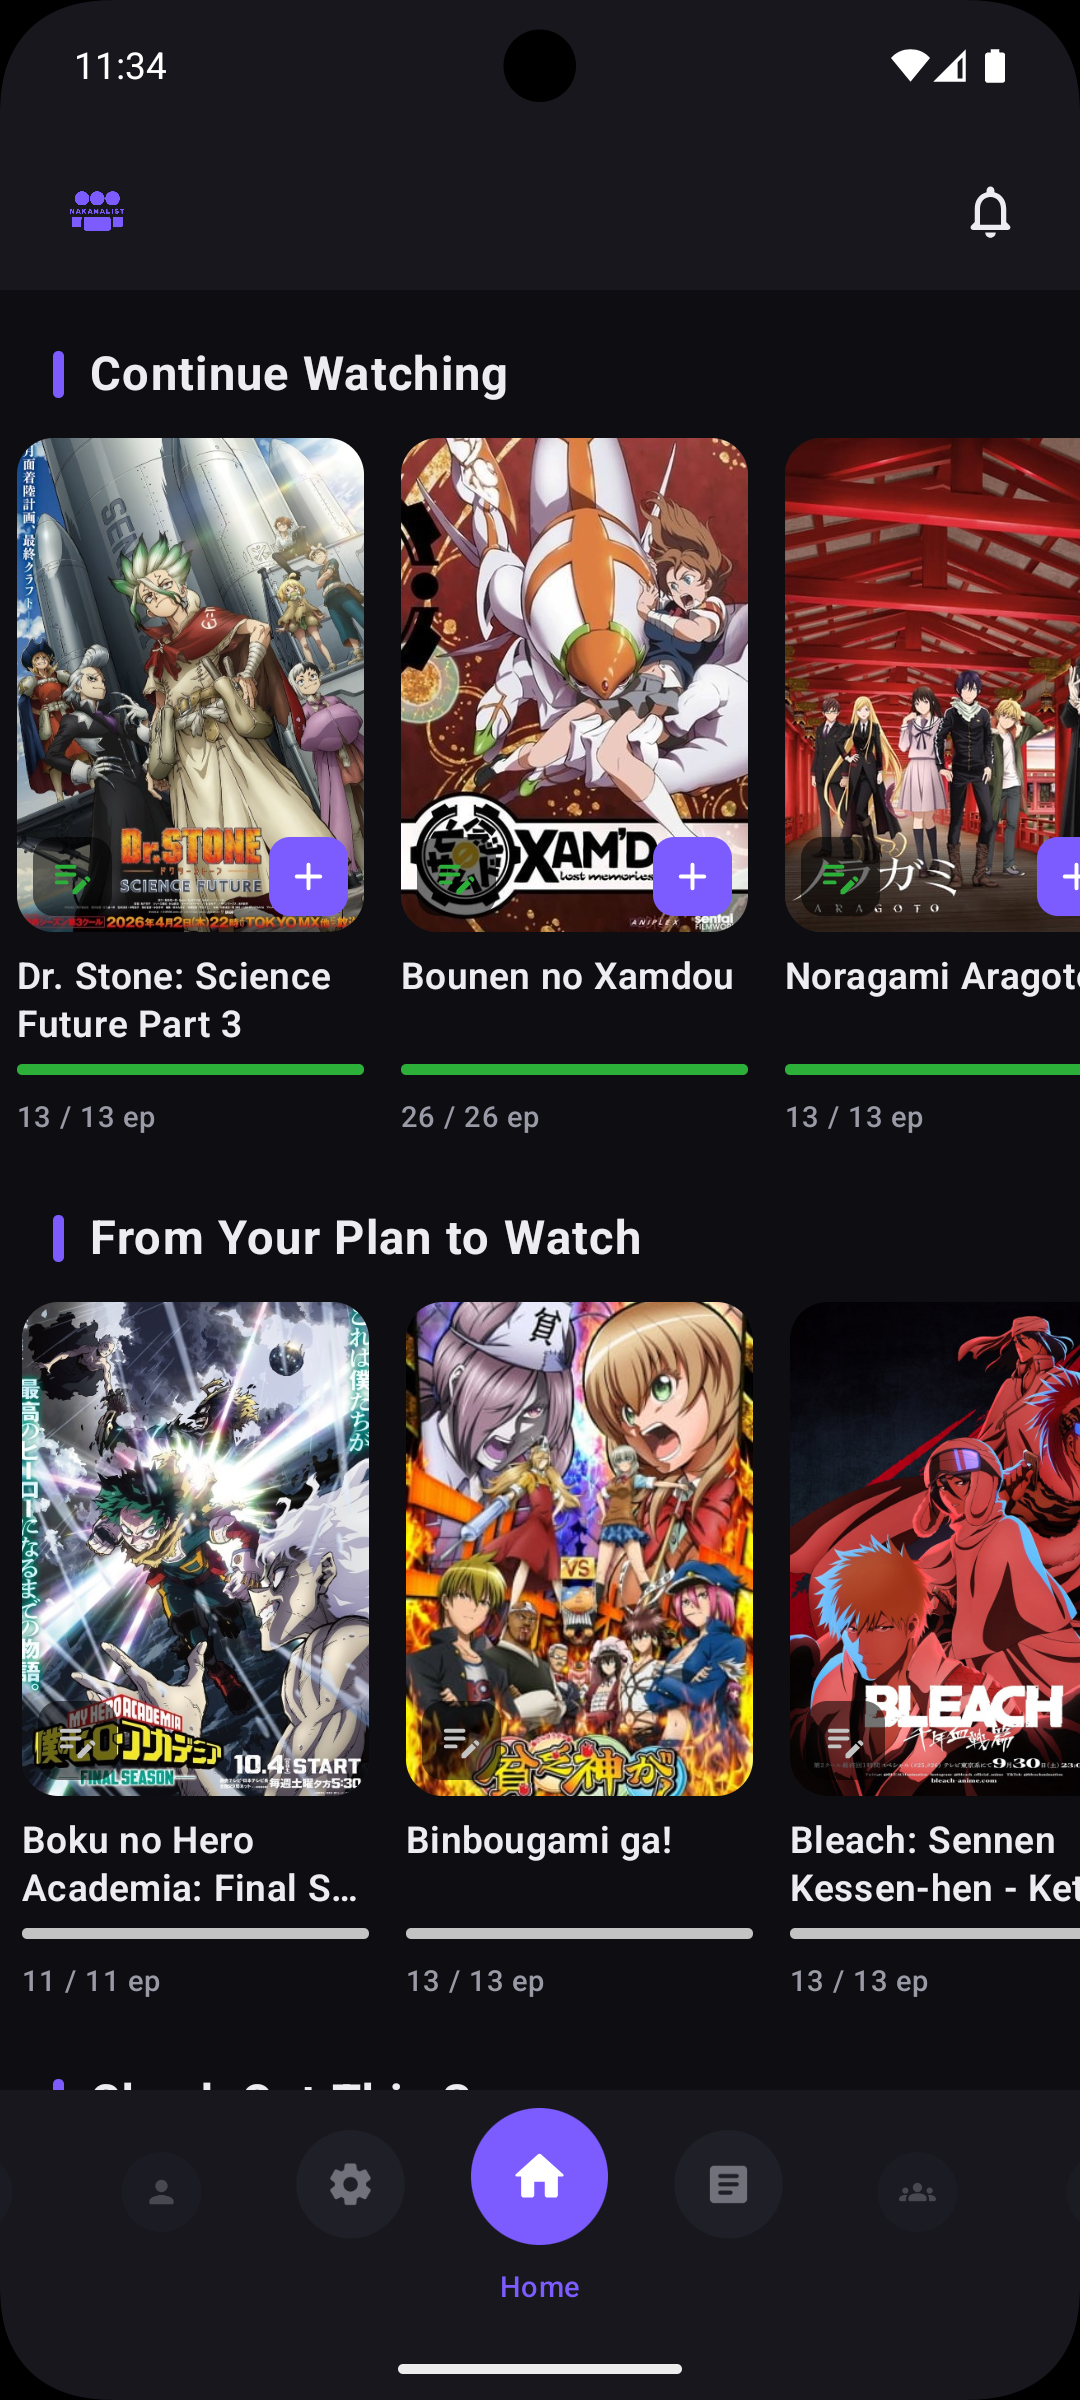
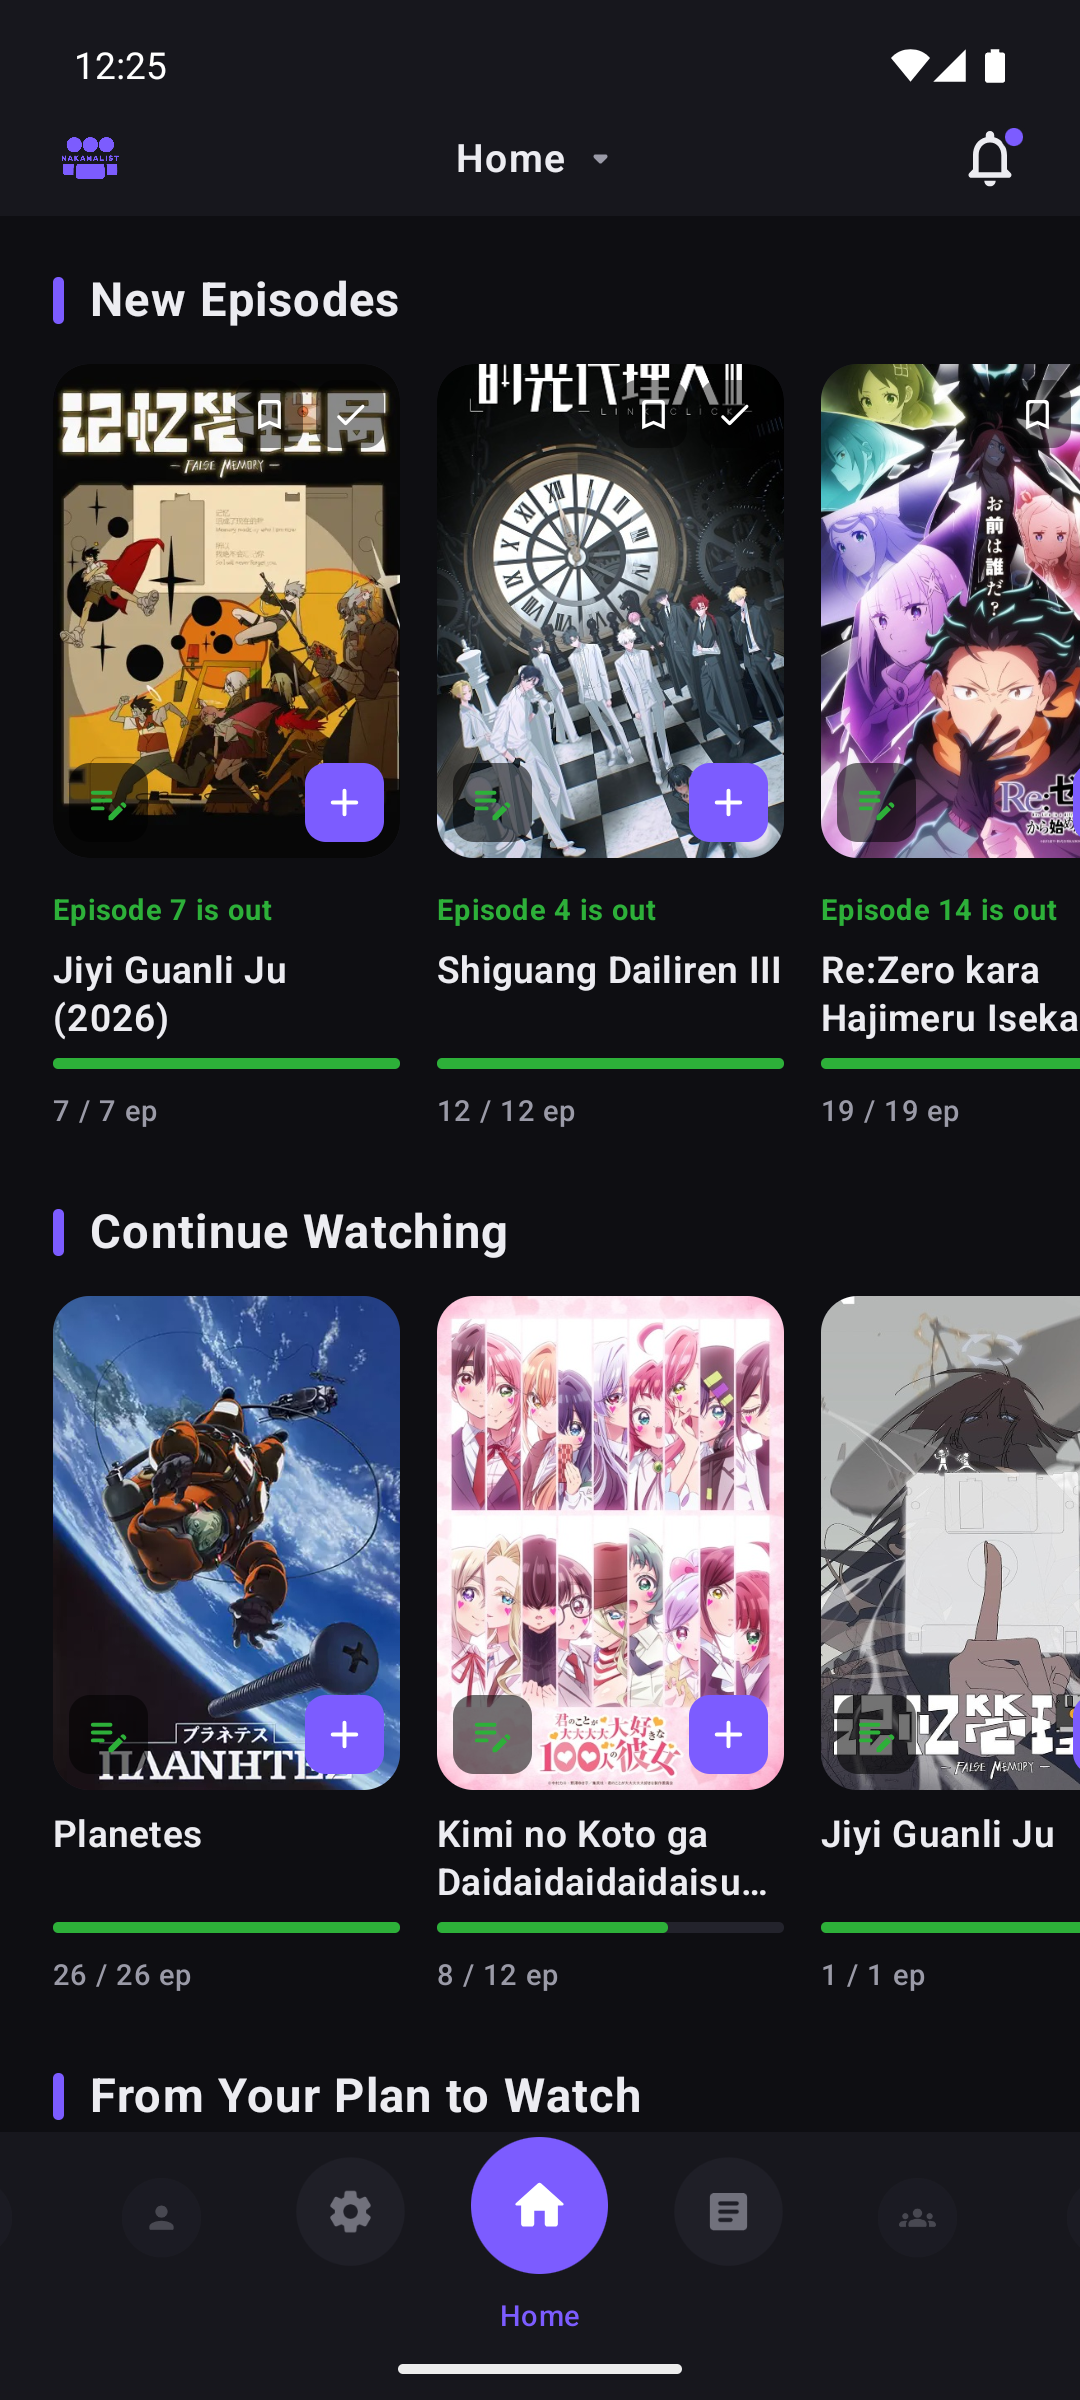
site: refresh screenshots, add Friends and TV/tablet to README, landing page and structured data

diff --git a/index.html b/index.html
@@ -6,8 +6,8 @@
 <meta name="viewport" content="width=device-width, initial-scale=1.0"/>
 
 <title>NakamaList - MyAnimeList Anime &amp; Manga Tracker for Android</title>
-<meta name="description" content="NakamaList is a free, ad-free MyAnimeList client for Android. Track, rate and organize your anime and manga, sync with AniList, and discover seasonal anime, rankings and recommendations."/>
-<meta name="keywords" content="anime tracker, anime tracking app, manga tracker, MyAnimeList app, MyAnimeList client, unofficial MAL client, track anime and manga, anime list app, MAL client Android, AniList Android, seasonal anime, rate and organize anime and manga"/>
+<meta name="description" content="NakamaList is a free, ad-free MyAnimeList and AniList client for Android, tablet and TV. Track anime and manga, follow friends and compare scores, and discover seasonal anime, rankings and recommendations."/>
+<meta name="keywords" content="anime tracker, anime tracking app, manga tracker, MyAnimeList app, MyAnimeList client, unofficial MAL client, track anime and manga, anime list app, MAL client Android, AniList Android, anime friends activity, seasonal anime, anime tracker for Android TV, rate and organize anime and manga"/>
 <meta name="author" content="Ahmet Salih Golen"/>
 <meta name="application-name" content="NakamaList"/>
 <meta name="robots" content="index, follow, max-image-preview:large, max-snippet:-1, max-video-preview:-1"/>
@@ -19,7 +19,7 @@
 <meta property="og:type" content="website"/>
 <meta property="og:site_name" content="NakamaList"/>
 <meta property="og:title" content="NakamaList - MyAnimeList Anime &amp; Manga Tracker for Android"/>
-<meta property="og:description" content="Free, ad-free MyAnimeList client for Android. Track, rate and organize anime and manga, sync AniList, and discover seasonal anime, rankings and recommendations."/>
+<meta property="og:description" content="Free, ad-free MyAnimeList and AniList client for Android, tablet and TV. Track anime and manga, follow friends and compare scores, and discover seasonal anime and rankings."/>
 <meta property="og:image" content="https://asa07-salihg.github.io/NakamaList/assets/home.png"/>
 <meta property="og:image:alt" content="NakamaList home screen on Android"/>
 <meta property="og:image:width" content="1080"/>
@@ -29,7 +29,7 @@
 
 <meta name="twitter:card" content="summary_large_image"/>
 <meta name="twitter:title" content="NakamaList - MyAnimeList Anime &amp; Manga Tracker for Android"/>
-<meta name="twitter:description" content="Free, ad-free MyAnimeList client for Android. Track, rate and organize anime and manga, sync AniList, and discover seasonal anime and rankings."/>
+<meta name="twitter:description" content="Free, ad-free MyAnimeList and AniList client for Android, tablet and TV. Track anime and manga, follow friends and compare scores, and discover seasonal anime and rankings."/>
 <meta name="twitter:image" content="https://asa07-salihg.github.io/NakamaList/assets/home.png"/>
 <meta name="twitter:image:alt" content="NakamaList home screen on Android"/>
 <link rel="preconnect" href="https://fonts.googleapis.com"/>
@@ -192,12 +192,14 @@
   "@context":"https://schema.org",
   "@graph":[
     {"@type":"WebSite","@id":"https://asa07-salihg.github.io/NakamaList/#website","name":"NakamaList","url":"https://asa07-salihg.github.io/NakamaList/","inLanguage":"en"},
-    {"@type":"SoftwareApplication","name":"NakamaList","operatingSystem":"Android 8.0+","applicationCategory":"EntertainmentApplication","url":"https://asa07-salihg.github.io/NakamaList/","downloadUrl":"https://play.google.com/store/apps/details?id=com.nakamalist.app","installUrl":"https://play.google.com/store/apps/details?id=com.nakamalist.app","image":"https://asa07-salihg.github.io/NakamaList/assets/home.png","inLanguage":"en","description":"Free, ad-free MyAnimeList client for Android. Track anime and manga, sync with AniList, and browse seasonal anime, rankings, news and forums.","author":{"@type":"Person","name":"Ahmet Salih Golen"},"offers":{"@type":"Offer","price":"0","priceCurrency":"USD"},"screenshot":["https://asa07-salihg.github.io/NakamaList/assets/home.png","https://asa07-salihg.github.io/NakamaList/assets/mylist.png","https://asa07-salihg.github.io/NakamaList/assets/detail.png","https://asa07-salihg.github.io/NakamaList/assets/discover.png"],"featureList":["Track anime and manga","Optional AniList sync","Seasonal anime","Rankings and recommendations","News, forums and clubs","New-episode notifications","56 languages"]},
+    {"@type":"SoftwareApplication","name":"NakamaList","operatingSystem":"Android 8.0+","applicationCategory":"EntertainmentApplication","url":"https://asa07-salihg.github.io/NakamaList/","downloadUrl":"https://play.google.com/store/apps/details?id=com.nakamalist.app","installUrl":"https://play.google.com/store/apps/details?id=com.nakamalist.app","image":"https://asa07-salihg.github.io/NakamaList/assets/home.png","inLanguage":"en","description":"Free, ad-free MyAnimeList and AniList client for Android, tablet and TV. Track anime and manga, follow friends and compare their scores, and browse seasonal anime, rankings, news and forums.","author":{"@type":"Person","name":"Ahmet Salih Golen"},"offers":{"@type":"Offer","price":"0","priceCurrency":"USD"},"screenshot":["https://asa07-salihg.github.io/NakamaList/assets/home.png","https://asa07-salihg.github.io/NakamaList/assets/friends.png","https://asa07-salihg.github.io/NakamaList/assets/mylist.png","https://asa07-salihg.github.io/NakamaList/assets/detail.png"],"featureList":["Track anime and manga","Friends activity feed and Friend Scores","Sign in with MyAnimeList or AniList","Optional AniList sync","Seasonal anime","Rankings and recommendations","News, forums and clubs","New-episode notifications","Android tablet and Android TV support","56 languages"]},
     {"@type":"FAQPage","mainEntity":[
       {"@type":"Question","name":"Is NakamaList free?","acceptedAnswer":{"@type":"Answer","text":"Yes. NakamaList is completely free, with no ads and no third-party tracking."}},
       {"@type":"Question","name":"Is NakamaList an official MyAnimeList app?","acceptedAnswer":{"@type":"Answer","text":"No. NakamaList is an independent, unofficial MyAnimeList client. It uses the official MyAnimeList API with your own account and is not affiliated with MyAnimeList."}},
       {"@type":"Question","name":"Does NakamaList track manga as well as anime?","acceptedAnswer":{"@type":"Answer","text":"Yes. You can track both anime and manga, including status, score, episodes, chapters, volumes, dates, tags and notes."}},
-      {"@type":"Question","name":"Can I sync with AniList?","acceptedAnswer":{"@type":"Answer","text":"Yes. You can optionally connect AniList to read reviews and keep your MyAnimeList and AniList lists in sync."}},
+      {"@type":"Question","name":"Can I sync with AniList?","acceptedAnswer":{"@type":"Answer","text":"Yes. You can sign in with AniList on its own, or link it alongside MyAnimeList to read reviews and keep both lists in sync."}},
+      {"@type":"Question","name":"Can I follow my friends?","acceptedAnswer":{"@type":"Answer","text":"Yes. Add people by MyAnimeList username or follow AniList accounts, then see everyone in one activity feed, browse their lists, and compare Friend Scores on any title."}},
+      {"@type":"Question","name":"Does NakamaList work on tablets and Android TV?","acceptedAnswer":{"@type":"Answer","text":"Yes. It fills a tablet screen instead of running in a portrait strip, and it runs on Android TV and Google TV with full remote control."}},
       {"@type":"Question","name":"What Android version do I need?","acceptedAnswer":{"@type":"Answer","text":"NakamaList runs on Android 8.0 and newer."}},
       {"@type":"Question","name":"Does NakamaList show seasonal anime and rankings?","acceptedAnswer":{"@type":"Answer","text":"Yes. You can browse seasonal anime back to 1917, official rankings, recommendations, news, forums and clubs."}}
     ]}
@@ -239,8 +241,9 @@
       </h1>
 
       <p class="lead">
-        Sign in with your MyAnimeList account to track, rate and organize your anime and manga.
-        Sync with AniList, follow seasonal anime, and discover new series. Free, with no ads.
+        Sign in with MyAnimeList or AniList to track, rate and organize your anime and manga.
+        Follow your friends, see what they are watching, and discover new series - on your phone,
+        tablet and TV. Free, with no ads.
       </p>
 
       <div class="cta" id="get">
@@ -374,6 +377,21 @@
         </p>
       </div>
 
+      <div class="tile lg reveal">
+        <div class="ico">
+          <svg viewBox="0 0 24 24">
+            <path d="M16 20v-2a4 4 0 00-4-4H6a4 4 0 00-4 4v2"/>
+            <circle cx="9" cy="7" r="4"/>
+            <path d="M22 20v-2a4 4 0 00-3-3.87M16 3.13a4 4 0 010 7.75"/>
+          </svg>
+        </div>
+        <h3>Friends</h3>
+        <p>
+          Follow people on MyAnimeList and AniList, see one merged activity feed, read their lists,
+          and compare Friend Scores on any title.
+        </p>
+      </div>
+
       <div class="tile reveal">
         <div class="ico">
           <svg viewBox="0 0 24 24">
@@ -384,6 +402,19 @@
         <h3>Community</h3>
         <p>
           Read MAL news, browse forums and check clubs.
+        </p>
+      </div>
+
+      <div class="tile reveal">
+        <div class="ico">
+          <svg viewBox="0 0 24 24">
+            <rect x="2" y="4" width="20" height="13" rx="2"/>
+            <path d="M8 21h8M12 17v4"/>
+          </svg>
+        </div>
+        <h3>Phone, tablet and TV</h3>
+        <p>
+          Fills a tablet screen, and runs on Android TV and Google TV with full remote control.
         </p>
       </div>
 
@@ -409,7 +440,8 @@
         </div>
         <h3>AniList support</h3>
         <p>
-          Optionally connect AniList to read reviews and sync list changes.
+          Sign in with AniList on its own, or link it alongside MyAnimeList to read reviews and keep
+          both lists in sync.
         </p>
       </div>
 
@@ -427,14 +459,14 @@
     </div>
 
     <div class="rail reveal">
-      <div class="frame"><img src="assets/home.png" alt="NakamaList home screen with Continue Watching and seasonal anime" width="1080" height="2400" loading="lazy" decoding="async"/></div>
+      <div class="frame"><img src="assets/home.png" alt="NakamaList home screen with new episodes and Continue Watching" width="1080" height="2400" loading="lazy" decoding="async"/></div>
+      <div class="frame"><img src="assets/friends.png" alt="Friends activity feed showing what people are watching and reading" width="1080" height="2400" loading="lazy" decoding="async"/></div>
       <div class="frame"><img src="assets/mylist.png" alt="NakamaList My List tracking anime and manga" width="1080" height="2400" loading="lazy" decoding="async"/></div>
-      <div class="frame"><img src="assets/edit.png" alt="Editing a MyAnimeList entry: status, score and episodes" width="1080" height="2400" loading="lazy" decoding="async"/></div>
-      <div class="frame"><img src="assets/detail.png" alt="Anime detail page with synopsis, characters and trailer" width="1080" height="2400" loading="lazy" decoding="async"/></div>
+      <div class="frame"><img src="assets/detail.png" alt="Anime detail page with synopsis, characters and Friend Scores" width="1080" height="2400" loading="lazy" decoding="async"/></div>
+      <div class="frame"><img src="assets/friendlist.png" alt="Browsing a friend's anime and manga list" width="1080" height="2400" loading="lazy" decoding="async"/></div>
       <div class="frame"><img src="assets/discover.png" alt="Discover anime rankings and recommendations" width="1080" height="2400" loading="lazy" decoding="async"/></div>
       <div class="frame"><img src="assets/profile.png" alt="Profile with anime and manga statistics" width="1080" height="2400" loading="lazy" decoding="async"/></div>
       <div class="frame"><img src="assets/seasonal.png" alt="Seasonal anime browser in NakamaList" width="1080" height="2400" loading="lazy" decoding="async"/></div>
-      <div class="frame"><img src="assets/forums.png" alt="MyAnimeList forums inside NakamaList" width="1080" height="2400" loading="lazy" decoding="async"/></div>
     </div>
 
     <p class="hint">Drag sideways to browse</p>
@@ -463,7 +495,15 @@
       </details>
       <details>
         <summary>Can I sync with AniList?</summary>
-        <p>Yes. You can optionally connect AniList to read reviews and keep your MyAnimeList and AniList lists in sync.</p>
+        <p>Yes. You can sign in with AniList on its own, or link it alongside MyAnimeList to read reviews and keep both lists in sync.</p>
+      </details>
+      <details>
+        <summary>Can I follow my friends?</summary>
+        <p>Yes. Add people by MyAnimeList username or follow AniList accounts, then see everyone in one activity feed, browse their lists, and compare Friend Scores on any title.</p>
+      </details>
+      <details>
+        <summary>Does NakamaList work on tablets and Android TV?</summary>
+        <p>Yes. It fills a tablet screen instead of running in a portrait strip, and it runs on Android TV and Google TV with full remote control.</p>
       </details>
       <details>
         <summary>What Android version do I need?</summary>
